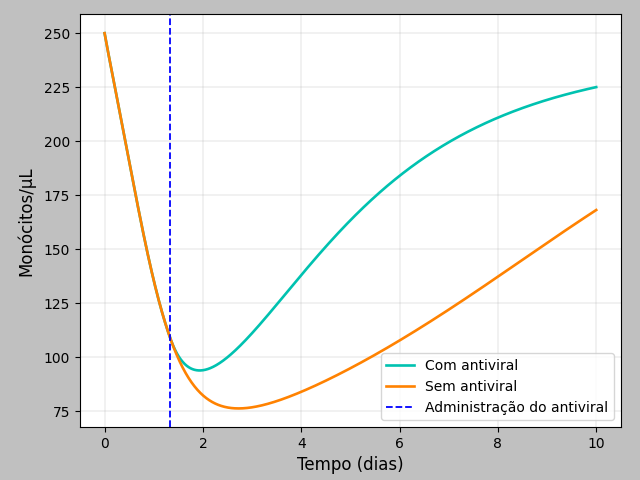
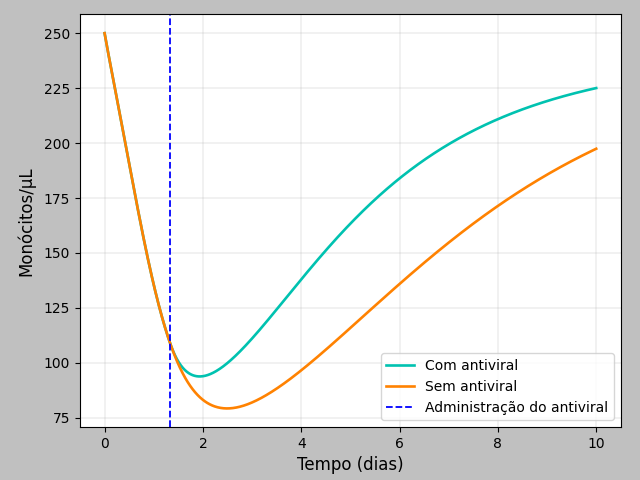
corrects the population dynamics calculation and generates the graphs

diff --git a/population-dynamics.py b/population-dynamics.py
@@ -109,8 +109,8 @@ for w in range(1):
             dz[w,n,r] = wks_eta[w] + wks_c[w] * i[w,n,r] + wks_d[w] * i[w,n,r] * z[w,n,r] - delta * z[w,n,r]
 
             ds_1[w,n,r] = wks_mu[w] - alpha * s_1[w,n,r] - a[2] * s_1[w,n,r] * v_1[w,n,r]
-            di_1[w,n,r] = a[2] * s_1[w,n,r] * v[w,n,r] - beta * i_1[w,n,r] - nu * i_1[w,n,r] * z_1[w,n,r]
-            dv_1[w,n,r] = k * i_1[w,n,r] - gamma * v[w,n,r] - a[2] * s_1[w,n,r] * v_1[w,n,r]
+            di_1[w,n,r] = a[2] * s_1[w,n,r] * v_1[w,n,r] - beta * i_1[w,n,r] - nu * i_1[w,n,r] * z_1[w,n,r]
+            dv_1[w,n,r] = k * i_1[w,n,r] - gamma * v_1[w,n,r] - a[2] * s_1[w,n,r] * v_1[w,n,r]
             dz_1[w,n,r] = wks_eta[w] + wks_c[w] * i_1[w,n,r] + wks_d[w] * i_1[w,n,r] * z_1[w,n,r] - delta * z_1[w,n,r]
 
             if r < (kutta - 1):
